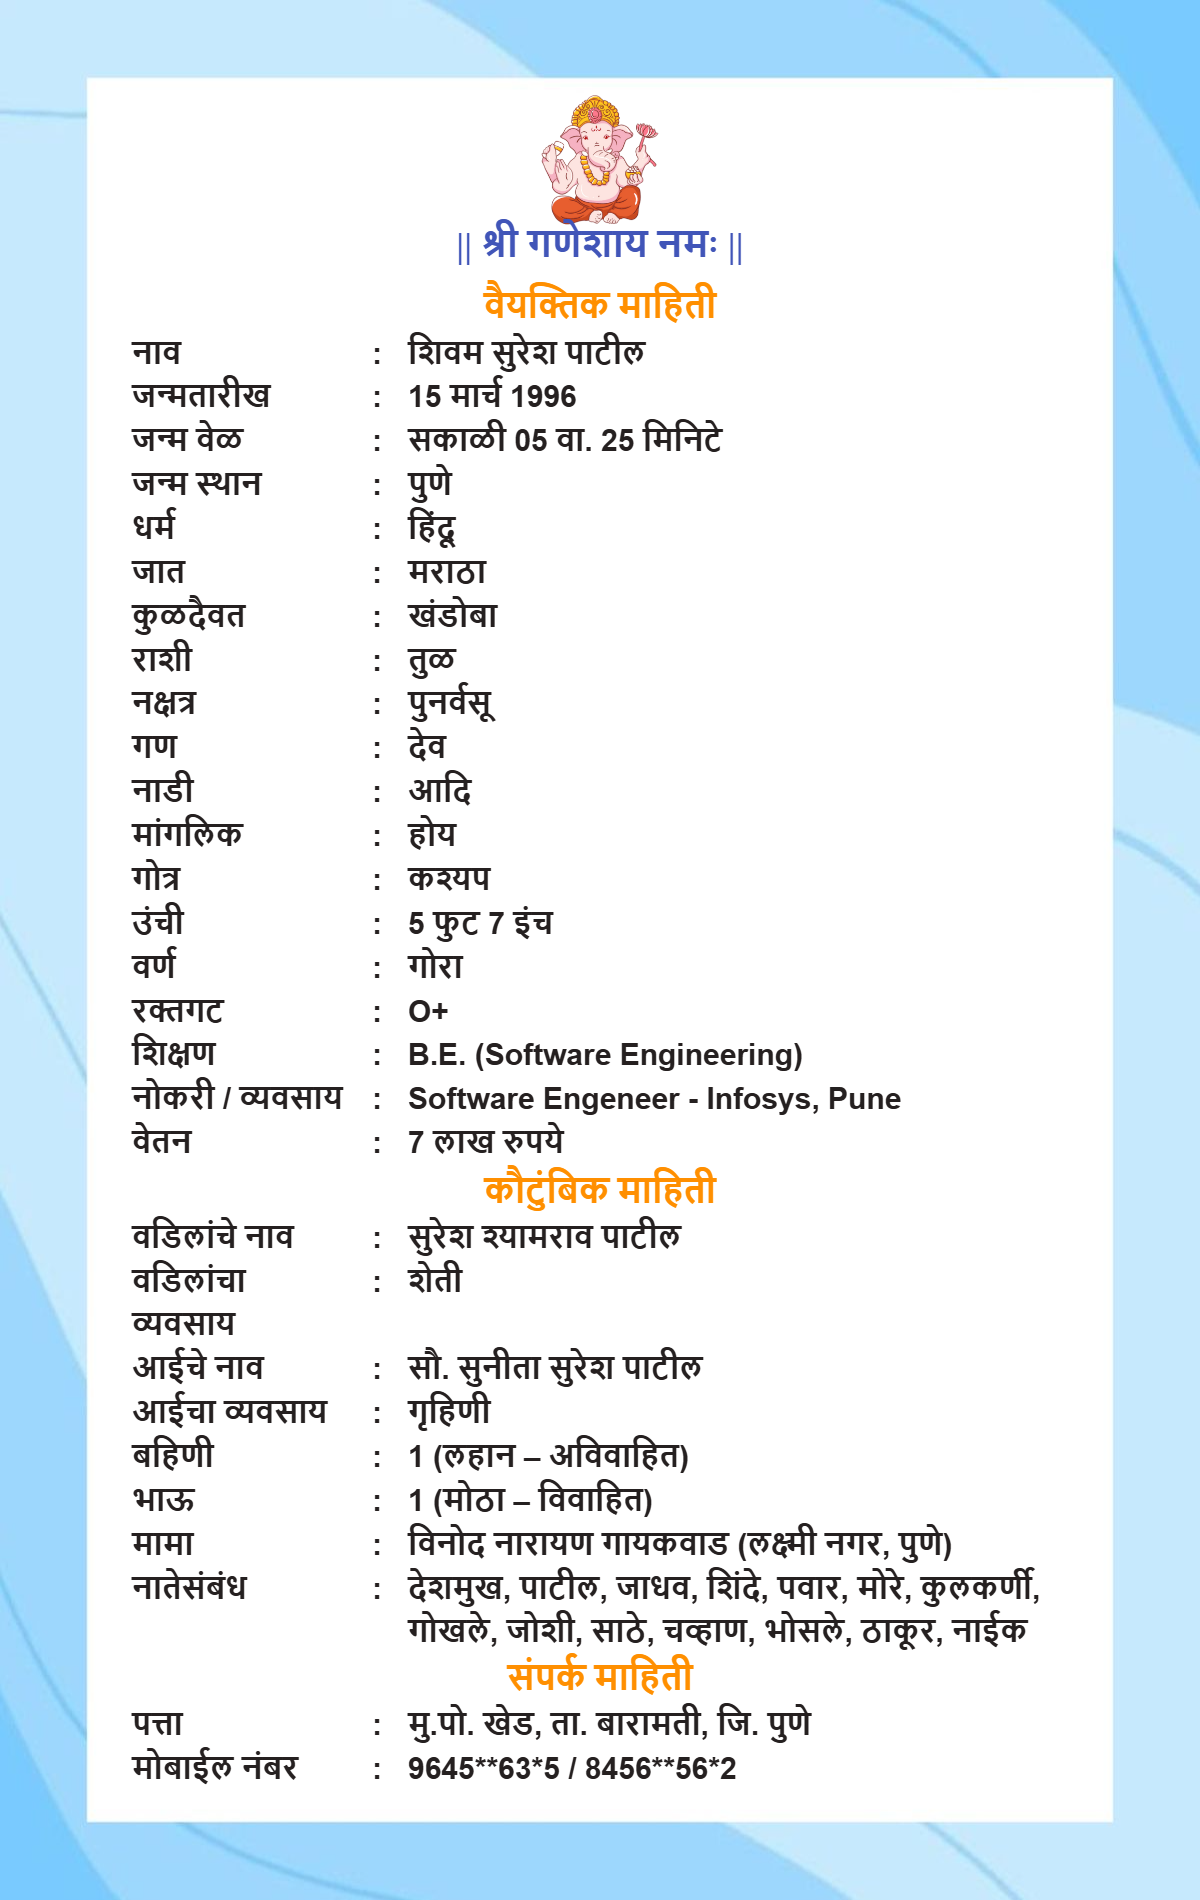
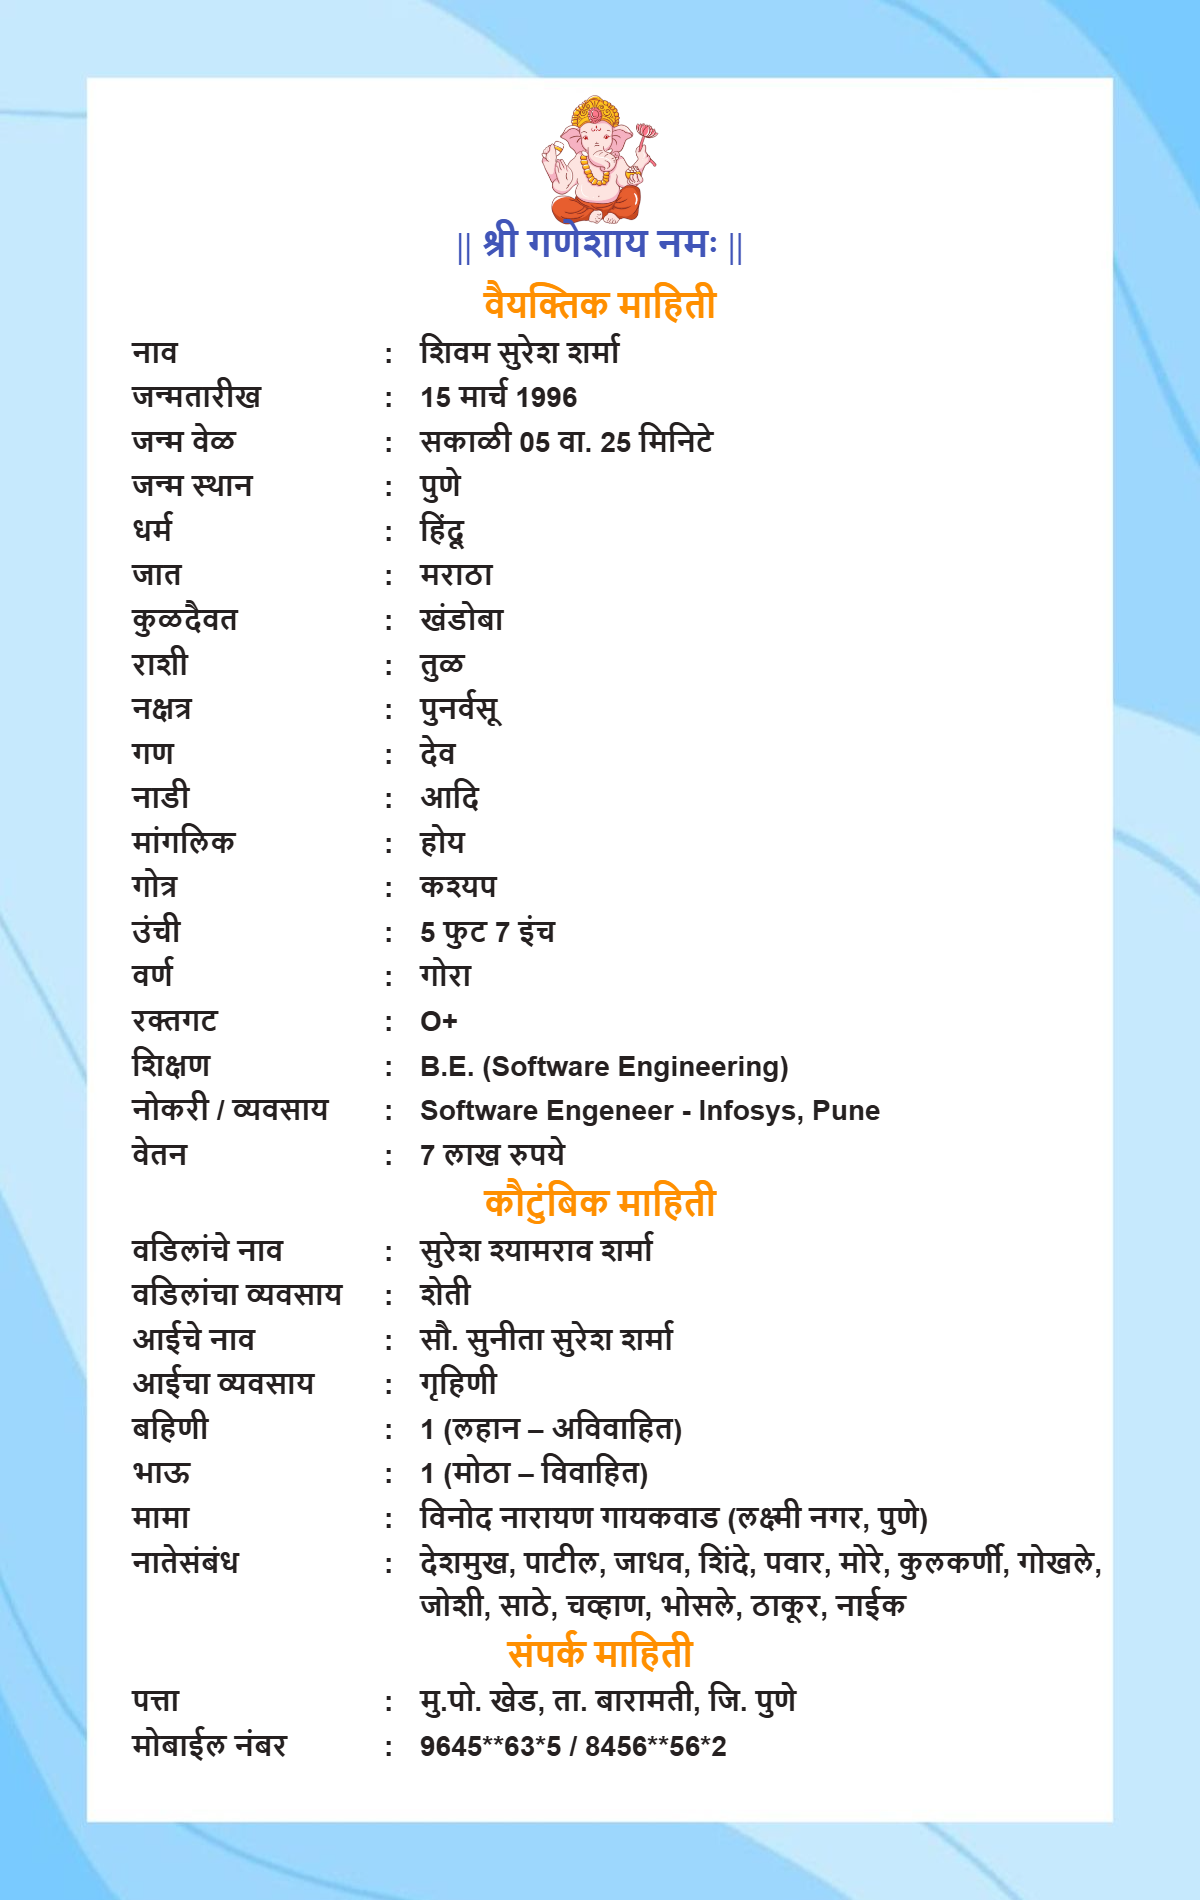
homepage template changes

Changed region(s): [[0.3392, 0.1553, 0.925, 0.9316], [0.0925, 0.1553, 0.2775, 0.8384], [0.0925, 0.8695, 0.2467, 0.9626]]

diff --git a/app/preview/page.tsx b/app/preview/page.tsx
@@ -106,7 +106,7 @@ export default function PreviewPage() {
     { id: 21, name: "Elegant 16", img: "/templates/t21.jpg", textColor: "#212121", backgroundColor: "#fff", lineHeightFactor: 1.22, godMarginTop: 0.05, labelsLeftPadding: 0.12, labelFontSize: 0.025, godTitleColor: "#4A148C", sectionTitleColor: "#FF8F00", userPhotomarginLeft: 0.07, labelMarginBottom: 0 },
 
     // ELEGANT 17
-    { id: 22, name: "Elegant 17", img: "/templates/t22.jpg", textColor: "#212121", backgroundColor: "#fff", lineHeightFactor: 1.20, godMarginTop: 0.05, labelsLeftPadding: 0.12, labelFontSize: 0.025, godTitleColor: "#4A148C", sectionTitleColor: "#FF8F00", userPhotomarginLeft: 0.09, labelMarginBottom: 0 },
+    { id: 22, name: "Elegant 17", img: "/templates/t22.jpg", textColor: "#212121", backgroundColor: "#fff", lineHeightFactor: 1.20, godMarginTop: 0.05, labelsLeftPadding: 0.11, labelFontSize: 0.025, godTitleColor: "#4A148C", sectionTitleColor: "#FF8F00", userPhotomarginLeft: 0.09, labelMarginBottom: 0 },
   ];
 
 
